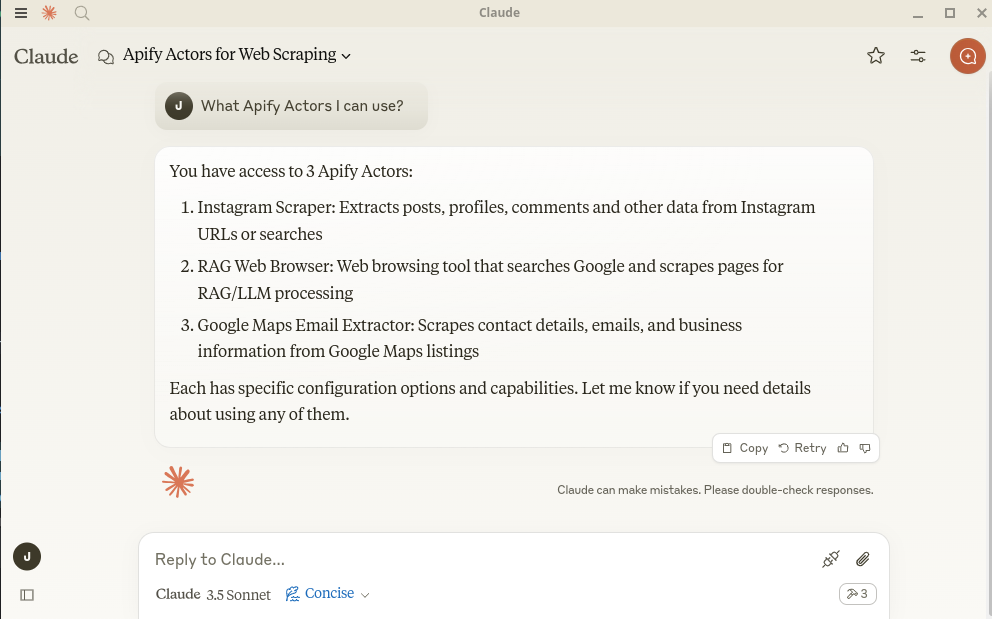
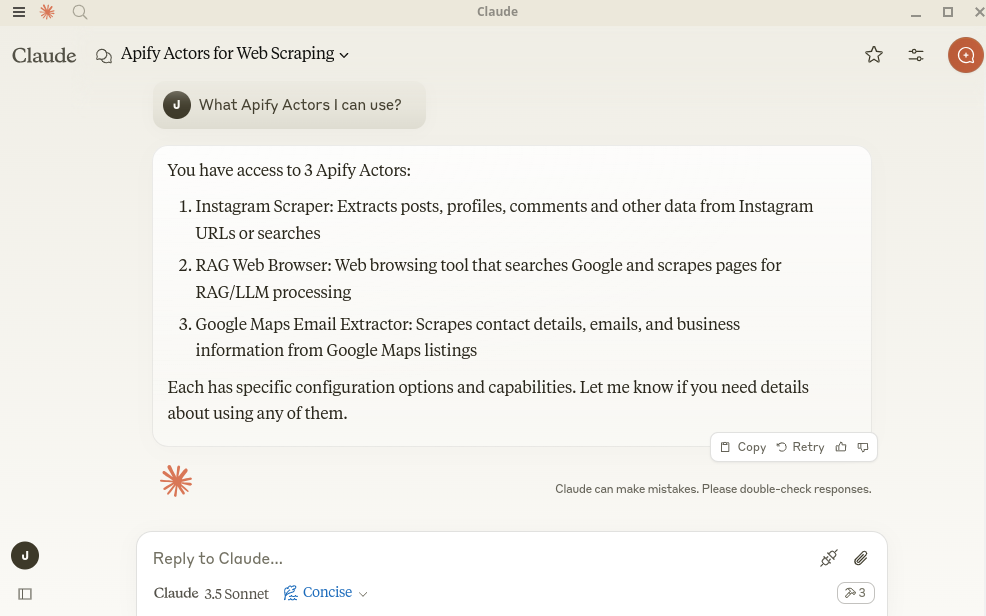
fix: clientSse example, update README.md (#27)
* fix: Correct clientSse.ts example
* fix: Correct claude-desktop.png image

diff --git a/src/examples/clientSse.ts b/src/examples/clientSse.ts
@@ -3,7 +3,6 @@
  * Connect to the MCP server using SSE transport and call a tool.
  * The Actors MCP Server will load default Actors.
  *
- * !!! NOT WORKING - This example needs to be fixed as it does not work !!!
  */
 
 import path from 'path';
@@ -15,15 +14,17 @@ import { CallToolResultSchema } from '@modelcontextprotocol/sdk/types.js';
 import dotenv from 'dotenv';
 import { EventSource } from 'eventsource';
 
+const REQUEST_TIMEOUT = 120_000; // 2 minutes
 // Resolve dirname equivalent in ES module
 const filename = fileURLToPath(import.meta.url);
 const dirname = path.dirname(filename);
 
 dotenv.config({ path: path.resolve(dirname, '../../.env') });
 
-const SERVER_URL = 'https://actors-mcp-server/sse';
+const SERVER_URL = 'https://actors-mcp-server.apify.actor/sse';
 // We need to change forward slash / to underscore _ in the tool name as Anthropic does not allow forward slashes in the tool name
 const SELECTED_TOOL = 'apify_rag-web-browser';
+const QUERY = 'web browser for Anthropic';
 
 if (!process.env.APIFY_TOKEN) {
     console.error('APIFY_TOKEN is required but not set in the environment variables.');
@@ -81,10 +82,11 @@ async function main(): Promise<void> {
         }
 
         // Call a tool
-        console.log('Calling actor ...');
+        console.log(`Calling actor ... ${SELECTED_TOOL}`);
         const result = await client.callTool(
-            { name: SELECTED_TOOL, arguments: { query: 'web browser for Anthropic' } },
+            { name: SELECTED_TOOL, arguments: { query: QUERY } },
             CallToolResultSchema,
+            { timeout: REQUEST_TIMEOUT },
         );
         console.log('Tool result:', JSON.stringify(result, null, 2));
     } catch (error: unknown) {

diff --git a/README.md b/README.md
@@ -251,6 +251,7 @@ To configure Claude Desktop to work with the MCP server, follow these steps. For
     - Look for the 🔌 icon to confirm that the Exa server is connected.
 
 6. Open the Claude Desktop chat and ask "What Apify Actors I can use?"
+
    ![Claude-desktop-with-Actors-MCP-server](https://raw.githubusercontent.com/apify/actors-mcp-server/refs/heads/master/docs/claude-desktop.png)
 
 7. Examples
